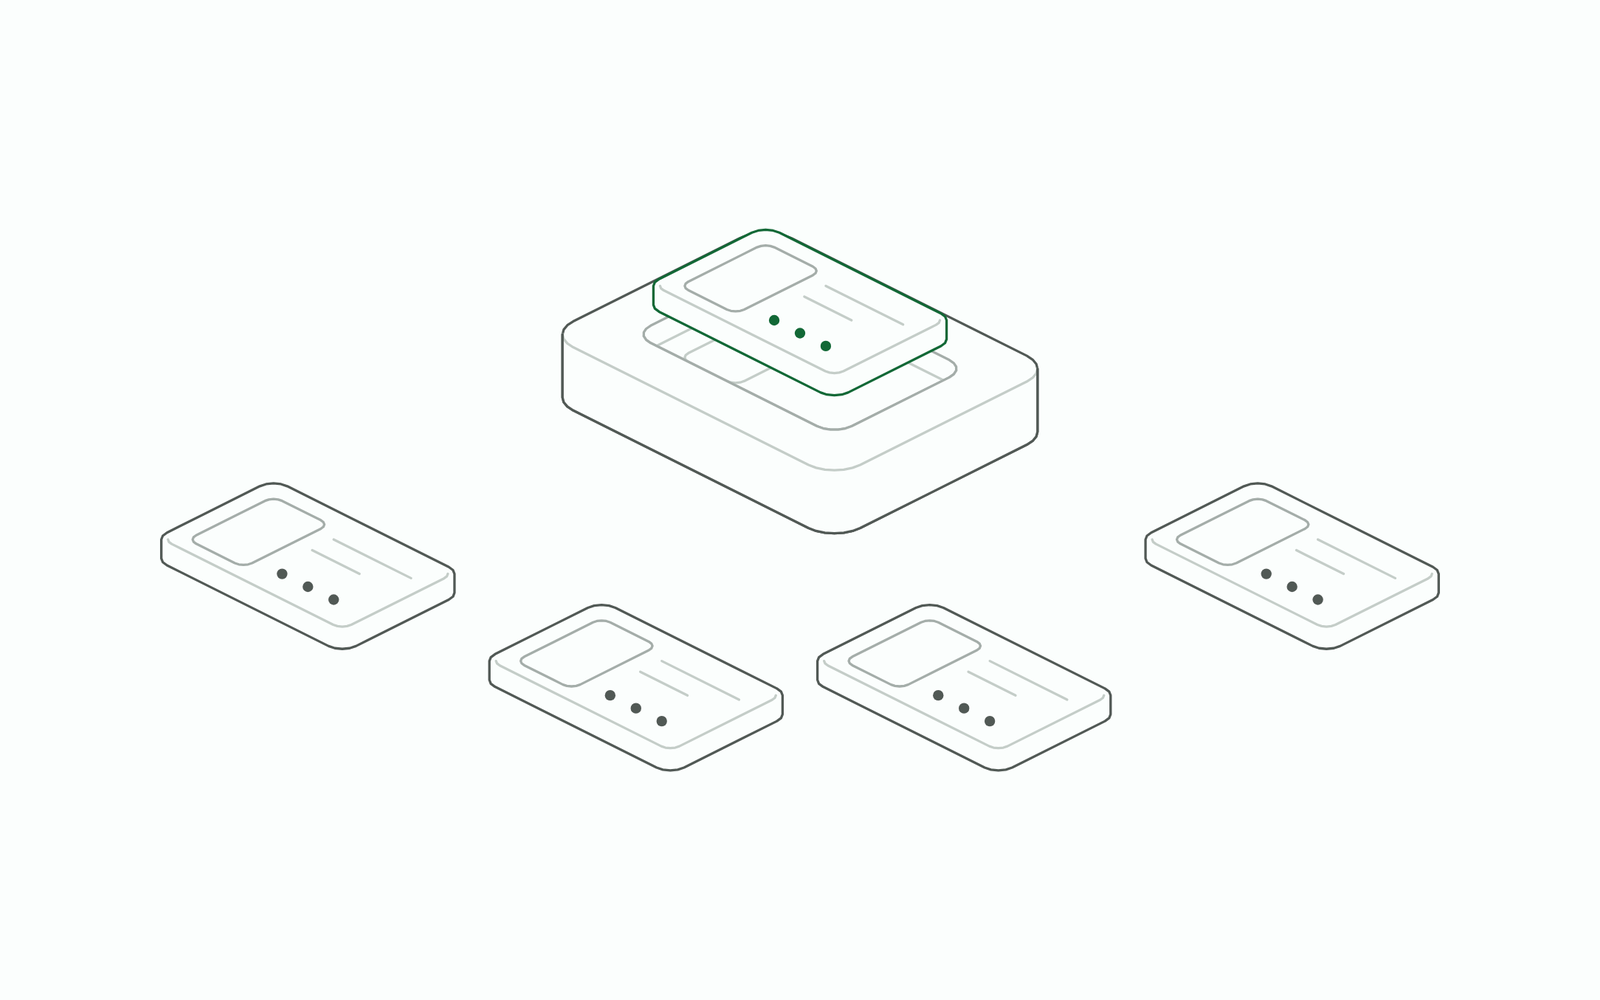
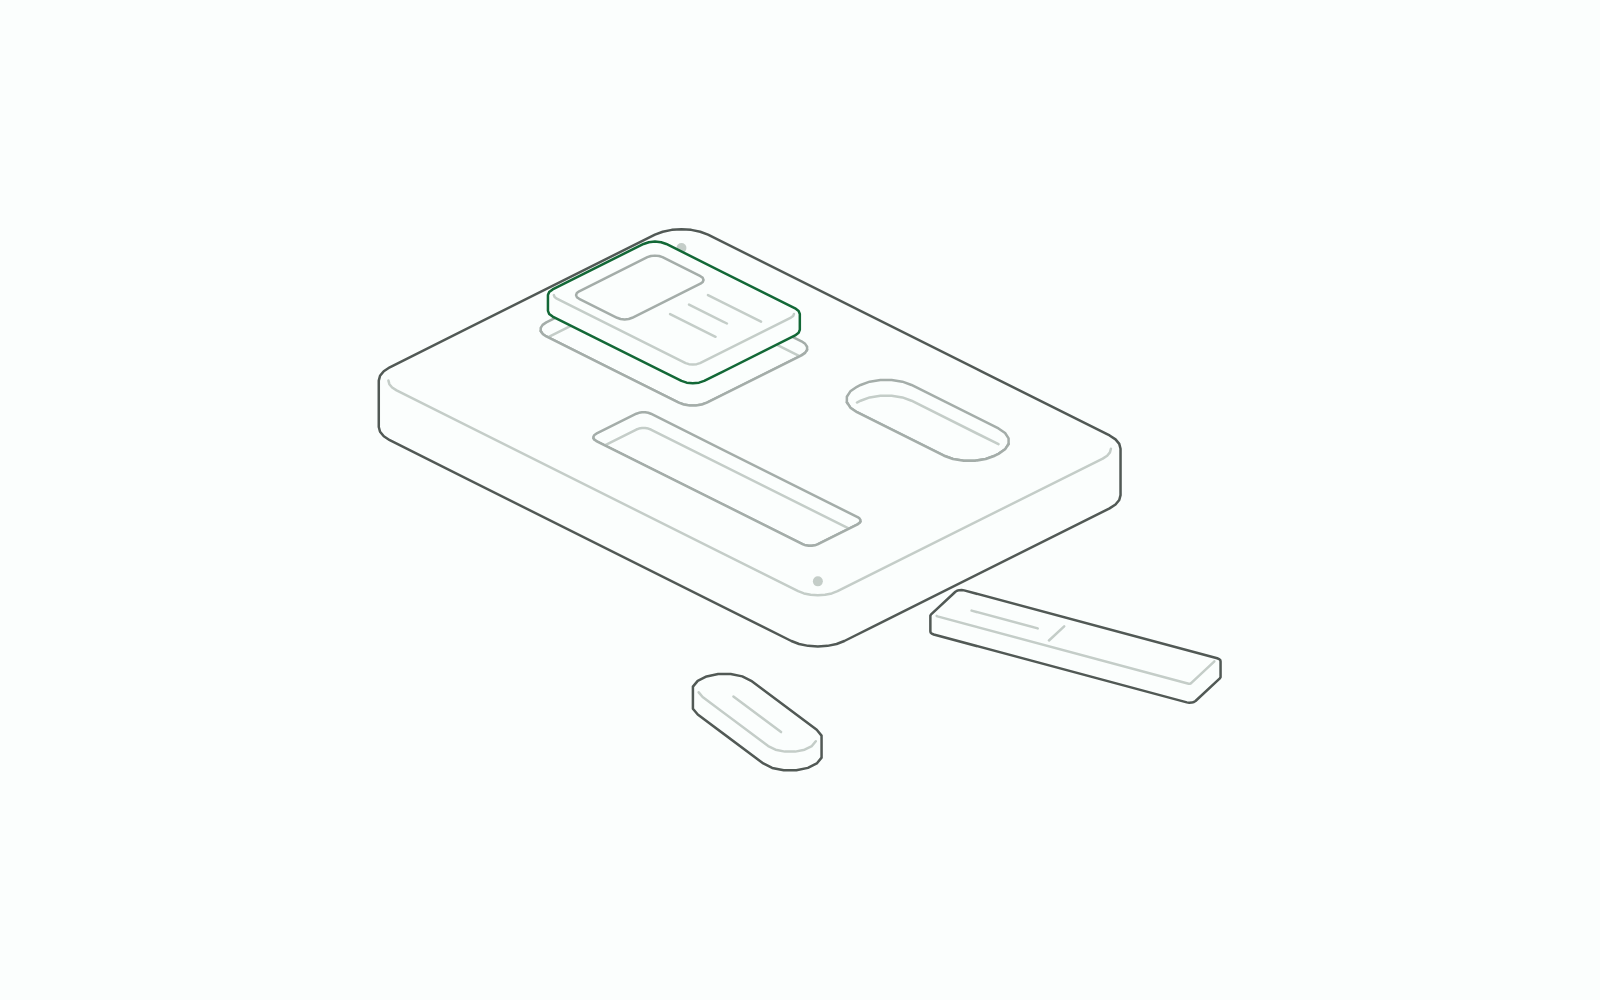
Jig hero and card thumbnail for LM-W-006
The mould drawing becomes a jig: a plate with recesses cut for a card, a
field and a button, with the card squared up over its recess and the
other two parts loose beside it. Closer to what the project is for,
giving agents a fixed place for each part rather than having them shape
new ones every time. Same Hairline style and MotifSpec colours as the
other heroes; alt text and caption describe the new drawing.

diff --git a/content/work/design-spec-to-prototype/hero-figure.js b/content/work/design-spec-to-prototype/hero-figure.js
@@ -1,139 +1,121 @@
 /**
- * Mould: a block with a card-shaped hollow, a fresh cast lifting out of it,
- * and four casts laid in an arc in front, each with the same thumbnail window,
- * title rule and three tag pips as the hollow they came from. The cast under
- * the pointer lifts, and the others lift less, staggered outwards from it.
- * Over the mould, its own cast lifts. At rest the fresh cast is bright: where
- * every copy starts. The slider is the lift.
+ * Jig: a plate with three recesses cut to the shapes of a card, a button and
+ * a field, and the loose parts lying askew in front of it. The pointer picks
+ * a recess, or its part, and the part lifts, turns square and drops in flush;
+ * the others go back out, staggered outwards from it. At rest the card hangs
+ * square over its recess, about to drop in, and is bright. The slider is how
+ * askew the loose parts lie.
  *
- * The pattern: discrete items at different heights. Tweens, a stagger by
- * distance, and a hit test on each part's own resting top, so a cast rising
- * from under the pointer cannot change the choice.
+ * The pattern: discrete items that change depth order. Tweens, a stagger by
+ * distance, and a hit test on each recess and each part's resting footprint.
  */
 const {
-  Cam, clamp, facing, fit, hull, open, poly, proj, prism, rings, ringAt, rrect, run, seg, unproj,
+  Cam, clamp, facing, fit, lerp, open, poly, proj, prism, rad, rings, ringAt, rrect, run, seg, unproj,
   tset, tval, tdone, tween, disposer, mk, place, pointer, put, register, solid,
 } = HL;
 
-// A cast, in world units: CW along x, CD along y, CT thick.
-const CW = 44, CD = 28, CT = 3.6, CR = 3.2, CB = 1.1;
-// The mould: its hollow fits a cast with GAP to spare; MARGIN of block round the hollow; MH tall; the hollow DEEP.
-const GAP = 1.4, MARGIN = 10, MH = 12, DEEP = CT + 0.8, MR = 6;
-const FLOOR = MH - DEEP;
-const REST_LIFT = 10, LIFT_FAR = 0.3, STAG = 45;
-
-// Where the four casts lie, in an arc in front of the mould: [x, y] centres. `o` places each along the arc for the
-// stagger; the mould sits in the middle of it.
-const S2 = Math.SQRT1_2;
-const ARC = [-1.5, -0.5, 0.5, 1.5].map((a) => {
-  const along = a * 54, toward = 98 - a * a * 20;
-  return [S2 * (along + toward), S2 * (toward - along)];
-});
+const JW = 60, JD = 42, JH = 10, JR = 7, PT = 3.4, GAP = 1.2, FLY = JH + 6, STAG = 50;
+// The card's progress at rest: squared up over its recess, its foot 4 above the jig's top.
+const REST = 0.8 + (0.2 * (FLY - (JH + 4))) / (FLY - (JH - PT));
+// Each part: its size and radius, its recess on the jig, where it lies loose, and which way it turns.
 const PARTS = [
-  { name: "spec", cx: 0, cy: 0, o: 1.5, mould: true },
-  ...["hugo", "npm", "mcp", "showcase"].map((name, k) => ({ name, cx: ARC[k][0], cy: ARC[k][1], o: k })),
+  { name: "card", w: 40, d: 30, r: 3, sx: -30, sy: -10, lx: -2, ly: 80, turn: -1, o: 0,
+    marks: [["r", -16, -11, -2, 11, 2], ["s", 2, -7, 16, -7], ["s", 2, -2, 12, -2], ["s", 2, 3, 14, 3]] },
+  { name: "button", w: 34, d: 12, r: 6, sx: 25, sy: -22, lx: 72, ly: 70, turn: 0.8, o: 1,
+    marks: [["s", -8, 0, 8, 0]] },
+  { name: "field", w: 56, d: 12, r: 1.2, sx: 14, sy: 20, lx: 94, ly: 8, turn: -1.2, o: 2,
+    marks: [["s", -22, 0, -8, 0], ["s", -4, -3, -4, 3]] },
 ];
 
-/** A run of points ordered left to right on screen. */
-const LR = (pts) => (pts[0][0] <= pts[pts.length - 1][0] ? pts : pts.slice().reverse());
+/** A ring of samples turned th degrees about the origin and moved to (cx, cy): normals turn with it. */
+function turn(ring, cx, cy, th) {
+  const c = Math.cos(rad(th)), s = Math.sin(rad(th));
+  return ring.map((q) => ({ u: cx + q.u * c - q.v * s, v: cy + q.u * s + q.v * c, nu: q.nu * c - q.nv * s, nv: q.nu * s + q.nv * c }));
+}
 
-/** The marks a cast carries on its top, at (cx, cy, z): a thumbnail window, a title rule and three tag pips. */
-function marks(P, cx, cy, z) {
-  const x0 = cx - CW / 2, y0 = cy - CD / 2;
-  const win = rrect(x0 + 4, y0 + 4, x0 + 17, y0 + CD - 4, 2, 4);
-  return {
-    win: poly(ringAt(P, win, z)),
-    rule: seg(P(x0 + 21, y0 + 7, z), P(x0 + CW - 5, y0 + 7, z)) + seg(P(x0 + 21, y0 + 12, z), P(x0 + CW - 12, y0 + 12, z)),
-    pips: [0, 1, 2].map((k) => P(x0 + 23 + k * 6, y0 + CD - 7, z)),
-  };
+/** Where a part is at progress t (0 loose, 1 set): it rises, travels and turns square, then drops in. */
+function pose(p, t, askew) {
+  const u = clamp((t - 0.1) / 0.7, 0, 1), e = u * u * (3 - 2 * u);
+  const z = t < 0.8 ? lerp(0, FLY, clamp(t / 0.25, 0, 1)) : lerp(FLY, JH - PT, (t - 0.8) / 0.2);
+  return { x: lerp(p.lx, p.sx, e), y: lerp(p.ly, p.sy, e), th: lerp(p.turn * askew, 0, e), z };
 }
 
 function mount({ stage, svg, read }, value) {
   const bag = disposer();
-  let lift = value;
+  let askew = value;
 
-  // Fitted with every cast lifted as far as the slider allows, so nothing leaves the frame.
   const C = Cam(45, 0.5, 1.72);
-  const ext = [];
-  for (const p of PARTS) {
-    const hw = p.mould ? CW / 2 + GAP + MARGIN : CW / 2, hd = p.mould ? CD / 2 + GAP + MARGIN : CD / 2;
-    for (const sx of [-1, 1]) for (const sy of [-1, 1]) ext.push([p.cx + sx * hw, p.cy + sy * hd, 0], [p.cx + sx * hw, p.cy + sy * hd, (p.mould ? FLOOR : 0) + CT + 24]);
-  }
-  fit(C, ext, 200, 160);
+  const ext = [[-JW, -JD, 0], [JW, JD, 0], [-JW, JD, 0], [JW, -JD, FLY + PT]];
+  for (const p of PARTS) for (const k of [-1, 1]) ext.push([p.lx + k * p.w * 0.55, p.ly + k * p.w * 0.3, 0], [p.lx + k * p.w * 0.55, p.ly - k * p.w * 0.3, 0]);
+  fit(C, ext, 200, 168);
   const P = proj(C), front = facing(C);
+  const at = (p, q, u, v, z) => { const c = Math.cos(rad(q.th)), s = Math.sin(rad(q.th)); return P(q.x + u * c - v * s, q.y + u * s + v * c, z); };
 
   const g = mk("g", {}, svg);
+  // The jig: its body, then each recess's rim and the floor line along its far walls, and two locating pins.
+  const outer = rrect(-JW, -JD, JW, JD, JR, 6), top = rrect(-JW + 1.8, -JD + 1.8, JW - 1.8, JD - 1.8, JR - 1.8, 6);
+  const jig = mk("g", {}, g);
+  put(solid(jig), prism(P, front, outer, top, 0, JH));
+  for (const [x, y] of [[-JW + 7, -JD + 7], [JW - 7, JD - 7]]) place(mk("circle", { r: 1.6, class: "dot off" }, jig), P(x, y, JH));
 
-  // The mould, which never moves. Its far half goes before its cast, its near half after, so the hollow holds it.
-  const hx = CW / 2 + GAP, hy = CD / 2 + GAP, ox = hx + MARGIN, oy = hy + MARGIN;
-  const outer = rrect(-ox, -oy, ox, oy, MR, 6), inner = rrect(-hx, -hy, hx, hy, CR + GAP * 0.6, 5);
-  const mouldFar = mk("g", {}, g);
-  mk("path", { d: poly(hull(ringAt(P, outer, 0).concat(ringAt(P, outer, MH)))), class: "sil" }, mouldFar);
-  mk("path", { d: poly(ringAt(P, inner, MH)), class: "nf" }, mouldFar);
-  mk("path", { d: open(ringAt(P, run(inner, (q) => !front(q)), FLOOR)), class: "nf lo" }, mouldFar);
-  // the hollow's floor carries the thumbnail window the casts take from it
-  const fm = marks(P, 0, 0, FLOOR);
-  mk("path", { d: fm.win, class: "nf lo" }, mouldFar);
-
-  const casts = PARTS.map((p, i) => {
+  const loose = mk("g", {}, g);
+  const parts = PARTS.map((p, i) => {
+    const slot = rrect(p.sx - p.w / 2 - GAP, p.sy - p.d / 2 - GAP, p.sx + p.w / 2 + GAP, p.sy + p.d / 2 + GAP, p.r + GAP * 0.6, 5);
+    mk("path", { d: poly(ringAt(P, slot, JH)), class: "nf" }, jig);
+    // the floor's far edge, trimmed at both ends, where it would show past the rim
+    mk("path", { d: open(ringAt(P, run(slot, (q) => !front(q)), JH - PT).slice(2, -2)), class: "nf lo" }, jig);
+    const [ring, inner] = rings(-p.w / 2, -p.d / 2, p.w / 2, p.d / 2, p.r, 1.1);
     const grp = mk("g", {}, g);
     const s = solid(grp);
-    const win = mk("path", { class: "nf" }, grp), rule = mk("path", { class: "nf lo" }, grp);
-    const pips = [0, 1, 2].map(() => mk("circle", { r: 1.5, class: "dot m" }, grp));
-    const [ring, crease] = rings(p.cx - CW / 2, p.cy - CD / 2, p.cx + CW / 2, p.cy + CD / 2, CR, CB);
-    return { p, i, s, win, rule, pips, ring, crease, base: p.mould ? FLOOR : 0, z: tween(p.mould ? REST_LIFT : 0), drawn: NaN };
+    const r = mk("path", { class: "nf" }, grp), sg = mk("path", { class: "nf lo" }, grp);
+    return { p, i, slot, ring, inner, grp, s, r, sg, t: tween(i === 0 ? REST : 0), drawn: NaN, set: null };
   });
+  // Each recess's near wall, painted over its part once the part is down in it: the part's sides are hidden, its top flush.
+  parts.slice().sort((a, b) => a.p.sx + a.p.sy - (b.p.sx + b.p.sy)).forEach((pt) => {
+    const rim = ringAt(P, run(pt.slot, front), JH), foot = ringAt(P, run(pt.slot, front), JH - PT);
+    pt.wall = mk("g", {}, g);
+    mk("path", { d: poly(rim.concat(foot.reverse())), class: "fo" }, pt.wall);
+    mk("path", { d: open(rim), class: "nf" }, pt.wall);
+  });
+  g.append(loose);
 
-  // The mould's near half, painted over its cast: one opaque piece from the hollow's front rim down to the block's foot.
-  const iF = LR(ringAt(P, run(inner, front), MH)), oT = LR(ringAt(P, run(outer, front), MH)), oB = LR(ringAt(P, run(outer, front), 0));
-  const mouldNear = mk("g", {}, g);
-  mk("path", { d: poly([...iF, oT[oT.length - 1], ...oB.slice().reverse(), oT[0]]), class: "fo" }, mouldNear);
-  mk("path", { d: open(oT), class: "nf lo" }, mouldNear);
-  mk("path", { d: open(iF), class: "nf" }, mouldNear);
-  mk("path", { d: open([oT[0], ...oB, oT[oT.length - 1]]), class: "nf sil" }, mouldNear);
-  // the mould's cast, and the block in front of it, come before the casts in the arc
-  mouldFar.after(casts[0].s.g.parentNode);
-  casts[0].s.g.parentNode.after(mouldNear);
-  // the arc back to front: the ends of the arc lie farther than its middle
-  casts.slice(1).sort((a, b) => a.p.cx + a.p.cy - (b.p.cx + b.p.cy)).forEach((c) => g.append(c.s.g.parentNode));
-
-  function draw(c, dz) {
-    if (dz === c.drawn) return;
-    c.drawn = dz;
-    const z0 = c.base + dz;
-    put(c.s, prism(P, front, c.ring, c.crease, z0, z0 + CT));
-    const m = marks(P, c.p.cx, c.p.cy, z0 + CT);
-    c.win.setAttribute("d", m.win);
-    c.rule.setAttribute("d", m.rule);
-    c.pips.forEach((el, k) => place(el, m.pips[k]));
+  function draw(pt, t) {
+    if (t === pt.drawn) return;
+    pt.drawn = t;
+    const q = pose(pt.p, t, askew);
+    put(pt.s, prism(P, front, turn(pt.ring, q.x, q.y, q.th), turn(pt.inner, q.x, q.y, q.th), q.z, q.z + PT));
+    let r = "", s = "";
+    for (const m of pt.p.marks) {
+      if (m[0] === "r") r += poly(turn(rrect(m[1], m[2], m[3], m[4], m[5], 4), q.x, q.y, q.th).map((o) => P(o.u, o.v, q.z + PT)));
+      else s += seg(at(pt.p, q, m[1], m[2], q.z + PT), at(pt.p, q, m[3], m[4], q.z + PT));
+    }
+    pt.r.setAttribute("d", r);
+    pt.sg.setAttribute("d", s);
+    // Down in its recess, the part goes under the recess's near wall; anywhere else, over the whole jig.
+    const down = q.z < JH;
+    if (down !== pt.set) { pt.set = down; if (down) pt.wall.before(pt.grp); else loose.append(pt.grp); }
   }
+  const bright = (pt, on) => pt.s.sil.classList.toggle("hi", on);
+  parts.forEach((pt) => bright(pt, pt.i === 0));
+  // loose parts back to front
+  parts.slice().sort((a, b) => a.p.lx + a.p.ly - (b.p.lx + b.p.ly)).forEach((pt) => loose.append(pt.grp));
 
-  /** A cast bright or not: its silhouette and its pips, one thing. */
-  function bright(c, on) {
-    c.s.sil.classList.toggle("hi", on);
-    c.pips.forEach((el) => el.classList.toggle("m", !on));
-  }
-
-  casts.forEach((c) => bright(c, c.i === 0));
-
-  const B = register(stage, (_dt, now) => {
+  const L = register(stage, (_dt, now) => {
     let moving = false;
-    casts.forEach((c) => { draw(c, tval(c.z, now)); if (!tdone(c.z, now)) moving = true; });
+    parts.forEach((pt) => { draw(pt, tval(pt.t, now)); if (!tdone(pt.t, now)) moving = true; });
     return moving;
   });
-  bag.add(B.unregister);
+  bag.add(L.unregister);
 
-  /** The part whose resting top holds the point: each is tested on its own plane, and the nearest centre wins. */
+  /** The part whose recess, or whose loose footprint, holds the point. Both are where the part rests, never where it is. */
   function hit([sx, sy]) {
-    let best = -1, bd = Infinity;
-    PARTS.forEach((p, i) => {
-      const z = p.mould ? MH : CT;
-      const hw = p.mould ? ox : CW / 2, hd = p.mould ? oy : CD / 2;
-      const [x, y] = unproj(C, sx, sy, z);
-      const dd = Math.max(Math.abs(x - p.cx) / (hw + 3), Math.abs(y - p.cy) / (hd + 3));
-      if (dd <= 1 && dd < bd) { bd = dd; best = i; }
-    });
-    return best;
+    const [jx, jy] = unproj(C, sx, sy, JH), [gx, gy] = unproj(C, sx, sy, PT);
+    for (const { p } of parts) {
+      if (Math.abs(jx - p.sx) <= p.w / 2 + 3 && Math.abs(jy - p.sy) <= p.d / 2 + 3) return p.o;
+      const c = Math.cos(rad(-p.turn * askew)), s = Math.sin(rad(-p.turn * askew)), dx = gx - p.lx, dy = gy - p.ly;
+      if (Math.abs(dx * c - dy * s) <= p.w / 2 + 3 && Math.abs(dx * s + dy * c) <= p.d / 2 + 3) return p.o;
+    }
+    return -1;
   }
 
   let act = -1;
@@ -141,30 +123,28 @@ function mount({ stage, svg, read }, value) {
     if (a === act) return;
     const now = performance.now(), from = a >= 0 ? a : act;
     act = a;
-    casts.forEach((c) => {
-      const n = Math.abs(c.p.o - PARTS[from].o);
-      const target = a < 0 ? (c.i === 0 ? REST_LIFT : 0) : c.i === a ? lift : clamp((lift * LIFT_FAR) / Math.max(n, 1), 0, lift);
-      tset(c.z, target, now, n * STAG);
-      bright(c, a < 0 ? c.i === 0 : c.i === a);
+    parts.forEach((pt) => {
+      tset(pt.t, a < 0 ? (pt.i === 0 ? REST : 0) : pt.i === a ? 1 : 0, now, Math.abs(pt.p.o - PARTS[from].o) * STAG);
+      bright(pt, a < 0 ? pt.i === 0 : pt.i === a);
     });
     read.textContent = a < 0 ? "rest" : PARTS[a].name;
-    B.wake();
+    L.wake();
   }
 
   bag.add(pointer(stage, { move: (p) => setActive(hit(p)), leave: () => setActive(-1) }));
   bag.add(() => svg.replaceChildren());
 
   return {
-    set: (v) => { lift = v; if (act >= 0) { const a = act; act = -1; setActive(a); } },
+    set: (v) => { askew = v; parts.forEach((pt) => { pt.drawn = NaN; }); L.wake(); },
     destroy: bag.dispose,
   };
 }
 
 hairline({
-  name: "mould",
-  means: "One mould and the casts taken from it, each with the same window, rule and pips: the one under the pointer lifts, the others less.",
-  rules: [1, 2, 4, 5],
-  range: [10, 16, 24],
-  tour: [[200, 95], [120, 200], [280, 200], null],
+  name: "jig",
+  means: "A jig cut to the shapes of a card, a button and a field: the part under the pointer turns square and drops in flush.",
+  rules: [1, 2, 5, 6],
+  range: [6, 14, 24],
+  tour: [[192, 228], [182, 153], [165, 108], null],
   mount,
 });

diff --git a/content/work/design-spec-to-prototype/index.md b/content/work/design-spec-to-prototype/index.md
@@ -10,8 +10,8 @@ tags: [design-systems, accessibility, agentic-coding]
 thumb: thumb.svg
 hero:
   src: hero.png
-  alt: An isometric line drawing of a block with a card-shaped hollow, a fresh card lifting out of it, and four identical cards laid in an arc in front. Every card has the same thumbnail window, two title lines and three tag dots, and the hollow's floor carries the same window. The card lifting out of the block is drawn in green.
-  caption: "The specification as a mould: each release is cast once and every channel gets the same copy."
+  alt: An isometric line drawing of a plate with three recesses cut into its top, shaped like a card, a text field and a button. The card, drawn in green, hangs squared up just above its recess, ready to drop in. The field and the button lie loose and askew in front of the plate.
+  caption: "The specification as a jig: every part has a place cut for it, so an agent sets it in square instead of shaping a new one each time."
 draft: false
 ---
 
